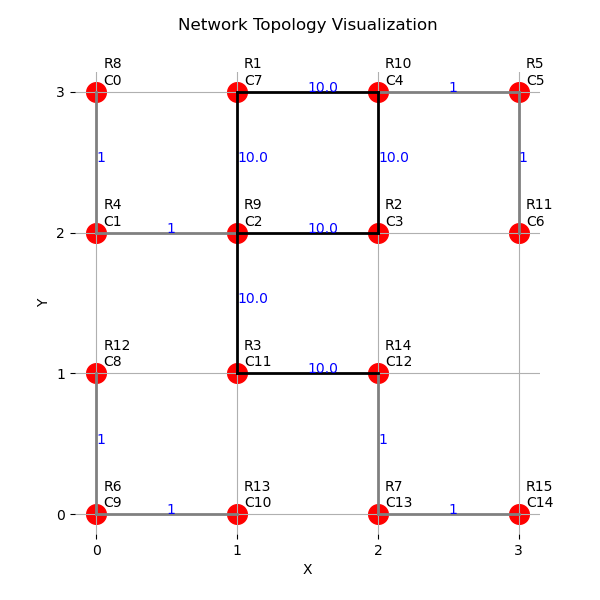
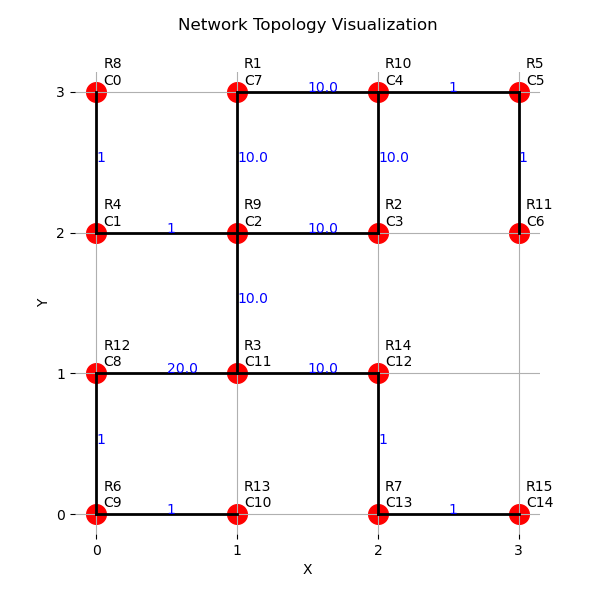
完成interconnect

diff --git a/helper_interconnect.py b/helper_interconnect.py
@@ -278,7 +278,7 @@ def add_last_level_routes_to_network(
             bandwidth=bandwidth,
             seen=local_seen,
             undirected=undirected,
-            color="gray",
+            color="black",
         )
         if added:
             all_added_edges.extend(added) # 累積結果
@@ -467,60 +467,105 @@ def least_congestion_per_level(
 
     return added_all
 
+
 def solve_multiple_solution(
-    routes_at_level: Dict[Tuple[int, int], dict],
-    router_to_node: Dict[int, "Node"],
-    net: "Network",
-    bandwidth: float = 10.0,
-    seen_undirected: Optional[Set[Edge]] = None,
-) -> None:
+        routes_at_level: Dict[Tuple[int, int], dict],
+        router_to_node: Dict[int, "Node"],
+        net: "Network",
+        bandwidth: float = 10.0,
+        seen_undirected: Optional[Set[Tuple[int, int]]] = None,  # 修正型別提示
+) -> List[Tuple[int, int]]:
     """
     若有多組解，則選擇XY(default)來連接
     """
-    """
-        Step 1: 檢查是否有路徑其實已經透過現有的邊 (seen_undirected) 連通了
-        """
+    added_all: List[Tuple[int, int]] = []
 
-    # 輔助函式：檢查一條邊是否存在於 seen (處理無向性)
+    if seen_undirected is None:
+        seen_undirected = set()
+
+    # --- 修正後的輔助函式 (針對 Tuple) ---
     def is_edge_in_seen(u, v, seen_set):
-        # 假設 seen_set 裡存的是 tuple (u, v)
-        # 如果 seen_set 裡存的是 Edge 物件，請改用 Edge(u, v) in seen_set
+        """
+        直接檢查 tuple 是否存在於 set 中。
+        因為是 Tuple，必須手動檢查兩個方向來模擬無向邊。
+        """
         return (u, v) in seen_set or (v, u) in seen_set
 
-    # 輔助函式：檢查整條路徑 (List of edges) 是否都存在
     def is_path_connected(edges_list, seen_set):
-        if not edges_list: return False
+        if not edges_list:
+            return False
         for (u, v) in edges_list:
             if not is_edge_in_seen(u, v, seen_set):
                 return False
         return True
 
+    # ==========================================
+    # Step 1: 檢查既有連通性
+    # ==========================================
     print("--- Step 1: Checking Existing Connectivity ---")
 
     for (_p, _c), info in routes_at_level.items():
-
-        # 只檢查目前標記為 0 (未連線) 的
         if info.get("status") == 0:
-
-            # 取得預計算好的邊列表 (從您的 Log 看來 info 裡已經有這些欄位了)
             xy_edges = info.get('XY_edges', [])
             yx_edges = info.get('YX_edges', [])
 
-            # 1. 檢查 XY 是否已通
-            if is_path_connected(xy_edges, seen_undirected):
+            # 優先檢查 XY
+            if xy_edges and is_path_connected(xy_edges, seen_undirected):
                 print(f"Route {_p}->{_c} is already connected via XY.")
                 info['status'] = 1
-                continue  # 完成，換下一條路徑
+                continue
 
-            # 2. 檢查 YX 是否已通 (這就是 Route 2->5 會被抓到的地方)
-            if is_path_connected(yx_edges, seen_undirected):
+                # 其次檢查 YX
+            if yx_edges and is_path_connected(yx_edges, seen_undirected):
                 print(f"Route {_p}->{_c} is already connected via YX.")
                 info['status'] = 1
                 continue
 
-            # 3. 都不通，印出資訊給 Step 2 處理
             print(f"Route {_p}->{_c} remains Unconnected.")
 
+    # ==========================================
+    # Step 2: 執行 XY Routing 並補齊缺少的邊
+    # ==========================================
+    print("--- Step 2: Using default (XY) to connect ---")
+
+    for (_p, _c), info in routes_at_level.items():
+        if info.get("status") == 0:
+            xy_edges = info.get('XY_edges', [])
+
+            if not xy_edges:
+                continue
+
+            print(f"Routing {_p} -> {_c} via XY...")
+
+            for u, v in xy_edges:
+
+                # 1. 檢查是否已存在 (使用 Helper)
+                if is_edge_in_seen(u, v, seen_undirected):
+                    continue
+
+                # 2. 不存在則建立 (修正：直接建立 Tuple，不要呼叫 Edge())
+                try:
+                    new_edge = (u, v)  # <--- 這裡直接用 Tuple
+                    added = add_edges(
+                        net,
+                        [new_edge],
+                        router_to_node,
+                        bandwidth=bandwidth,
+                        seen=seen_undirected,
+                        undirected=True,
+                    )
+                    # 加入 seen (這裡我們統一存入 (u, v)，helper 會幫忙查反向)
+                    seen_undirected.add(new_edge)
+                    added_all.append(new_edge)
+
+                    print(f"  [+] Created missing link: {u} <-> {v}")
+
+                except Exception as e:
+                    print(f"  [!] Error creating edge {u}-{v}: {e}")
+
+            info['status'] = 1
+
+    return added_all
 def print_result(placed, routes, edge_routes, node_layer_func):
     """
     列印 Placement, Router Path 以及 Router Edge 的結果。

diff --git a/unit_test_interconnect.py b/unit_test_interconnect.py
@@ -101,7 +101,8 @@ def main():
         )
     print_result(placed, routes, edge_routes, node_layer)
 
-    print(f"seen_undirected: {seen_undirected}")
+    # print(f"seen_undirected: {seen_undirected}")
+    visualize_network(network)
 
 if __name__ == "__main__":
     main()
